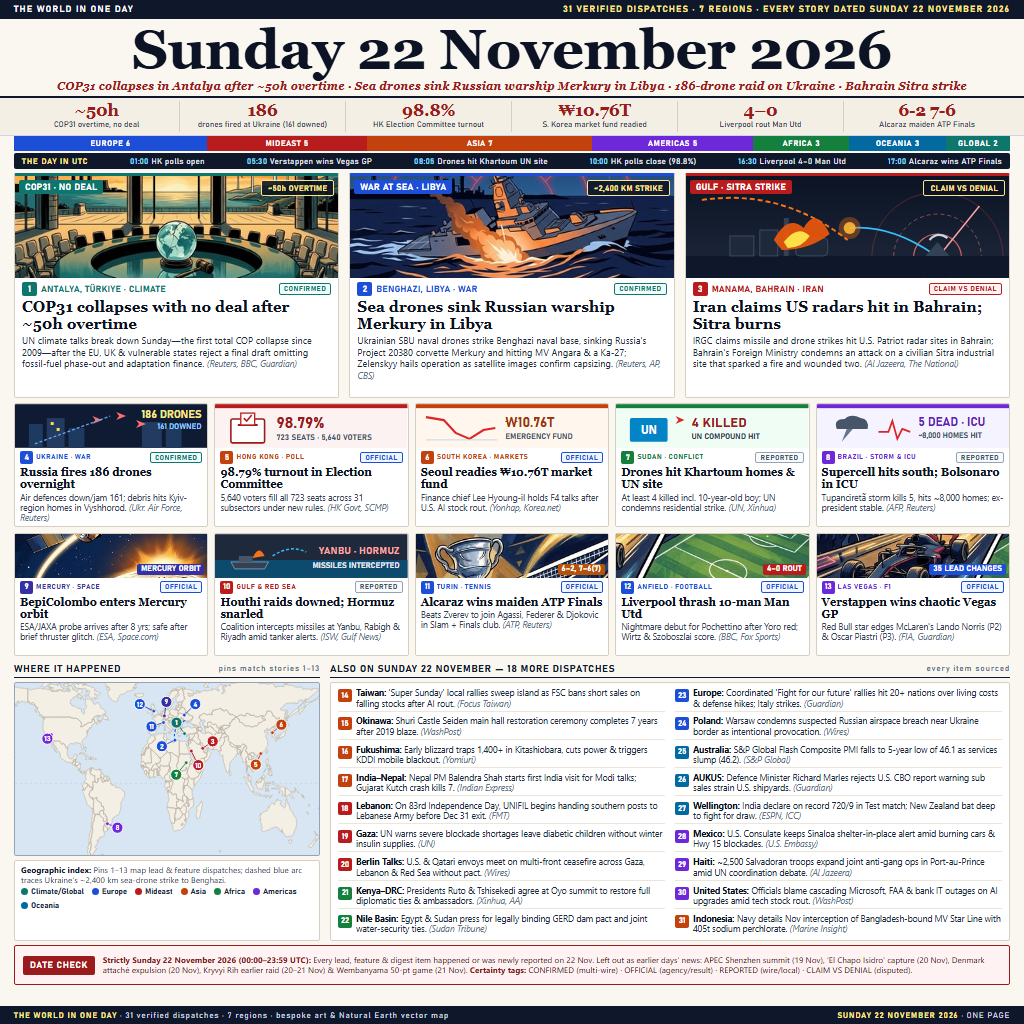
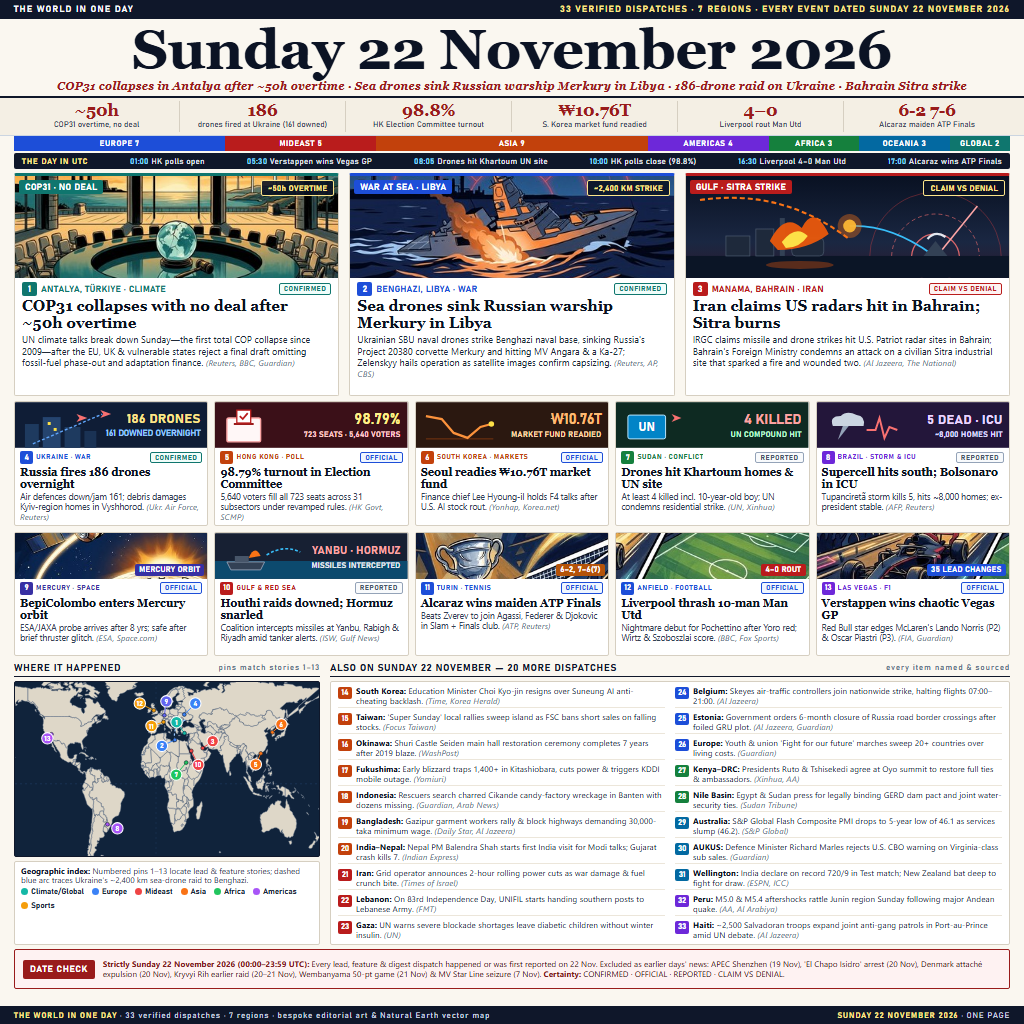
V6 broadsheet: 33 pure 22-Nov sourced stories, unified dark-band feature cards & high-contrast navy world map

diff --git a/README.md b/README.md
@@ -4,7 +4,7 @@
 [![rank](https://make.fun/badge/news-image-20261122/smartmita/news-image-20261122/rank.svg)](https://make.fun/bounty/news-image-20261122/leaderboard?utm_source=github&utm_medium=readme&utm_campaign=news-image-20261122)
 [![reward](https://make.fun/badge/news-image-20261122/smartmita/news-image-20261122/reward.svg)](https://make.fun/bounty/news-image-20261122?utm_source=github&utm_medium=readme&utm_campaign=news-image-20261122)
 
-A 1024×1024 illustrated Sunday, 22 November 2026 global broadsheet front page featuring a giant 300px-legible date masthead, key-numbers ribbon, UTC timeline, three major lead stories (COP31 Antalya's ~50-hour overtime collapse without a deal, Ukraine's sea-drone sinking of Russian corvette *Merkury* in Benghazi, and Iran's disputed Bahrain radar strike claim alongside the Sitra industrial fire), ten illustrated feature cards (Russia's 186-drone barrage, Hong Kong's 98.79% Election Committee turnout, South Korea's ₩10.76T emergency market fund, Khartoum UN-compound drone strikes, Brazil's Rio Grande do Sul supercell & Bolsonaro ICU update, ESA/JAXA BepiColombo entering Mercury orbit, Houthi raids intercepted over Saudi Arabia & Strait of Hormuz disruption, Alcaraz winning his maiden ATP Finals, Liverpool routing Manchester United 4–0, and Verstappen winning the Las Vegas Grand Prix), a numbered Natural Earth vector world map, 18 additional sourced Sunday dispatches across all 7 regions, and an explicit single-day Date Check & certainty legend.
+A 1024×1024 illustrated Sunday, 22 November 2026 global broadsheet front page featuring a giant 300px-legible date masthead, key-numbers ribbon, UTC timeline, three major lead stories (COP31 Antalya's ~50-hour overtime collapse without a deal, Ukraine's sea-drone sinking of Russian corvette *Merkury* in Benghazi, and Iran's disputed Bahrain radar strike claim alongside the Sitra industrial fire), ten cohesive illustrated feature cards (Russia's 186-drone barrage, Hong Kong's 98.79% Election Committee turnout, South Korea's ₩10.76T emergency market fund, Khartoum UN-compound drone strikes, Brazil's Rio Grande do Sul supercell & Bolsonaro ICU update, ESA/JAXA BepiColombo entering Mercury orbit, Houthi raids intercepted over Saudi Arabia & Strait of Hormuz disruption, Alcaraz winning his maiden ATP Finals, Liverpool routing Manchester United 4–0, and Verstappen winning the Las Vegas Grand Prix), a high-contrast dark-ocean Natural Earth vector world map, 20 additional sourced Sunday dispatches across all 7 regions (33 total), and an explicit single-day Date Check & certainty legend.
 
 ## Run it
 
